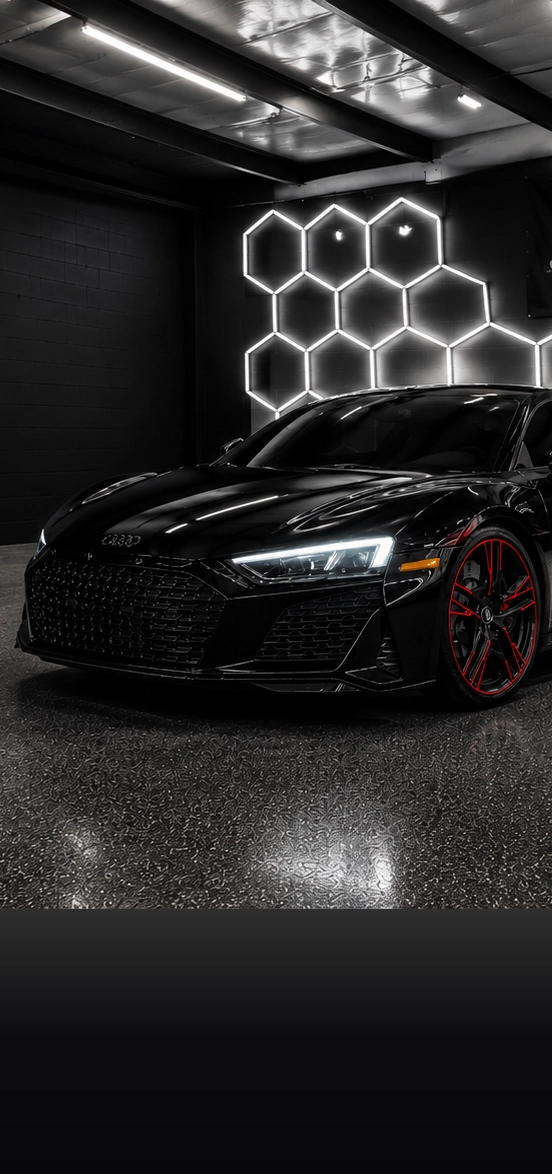
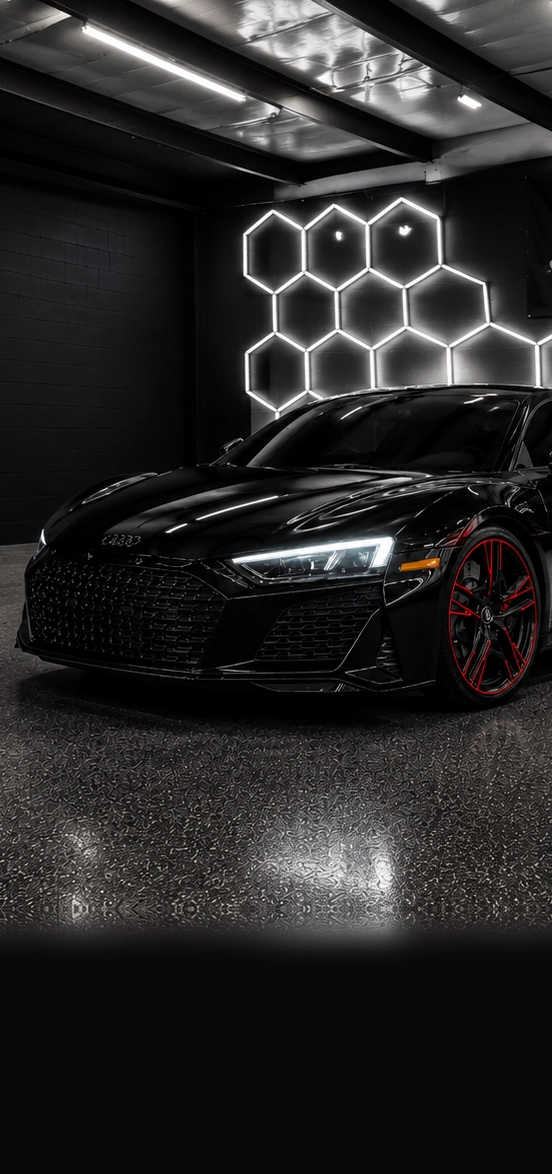
Fix the grey band under the phone hero, and the scroll jump with it
The phone hero photo is 552x909 and the build pads the canvas to 552x1174 so
cover never crops the sides. That pad started from the mean tone of the photo's
bottom 30 rows, which is 47, while the photo's last row is 76 - so the join was
a hard 28-level step followed by roughly 60 rows of textureless grey, reading as
a rectangle stuck to the foot of the photo.

It only showed on a phone because the hero was 100dvh. iOS Safari grows the
viewport as the URL bar collapses, so the hero grew while scrolling and slid the
pad into view, then hid it again on the way back up. That same live resize was
the scroll jump, since the hero is the first thing on the page.

- hero height 100dvh -> 100svh, measured with the browser UI shown and then left
  alone. No change on desktop, where svh, dvh and lvh are the same number.
- the pad is now the photo's own bottom rows mirrored, so the join is continuous
  by construction, 77 -> 76, with focus falling off over a dozen rows and a
  smoothstepped veil to page black about fifty rows in.

Home page paint budget on touch devices, with nothing changed on screen:

- service-card rotation frames were all preloaded at boot, 1.7MB and 14 decodes,
  while the phone was still painting the hero; now warmed on first appearance
- the eight rotation timers and the favourites-rail rAF loop ran from load to
  close, on cards and a rail far below the fold; both are now gated on visibility
[…]

Changed region(s): [[0.0924, 0.7666, 0.7699, 0.8279], [0.7699, 0.7666, 1.0, 0.8279], [0.0, 0.7973, 0.0924, 0.8279]]

diff --git a/src/styles/shop.css b/src/styles/shop.css
@@ -1590,10 +1590,24 @@ html.has-landed .page-wipe {
      Height is tied to the viewport, never to the photo's ratio - deriving it
      from the asset made the hero 618px tall at 375px wide and 1078px at 655px,
      which pushed the copy clean off the bottom of the screen. */
+  /* svh, not dvh. dvh is the *live* viewport, and on iOS Safari that number
+     changes the whole time you are scrolling - the URL bar collapses on the
+     way down and comes back on the way up, and the hero was re-laying itself
+     out to match on every one of those frames. Because the hero is the first
+     thing on the page, every one of those relayouts moved everything below it,
+     which is the jump you feel scrolling past the hero and again coming back
+     up. It also forces the blurred scrim below to re-render at a new size
+     mid-scroll.
+
+     svh is the same measurement taken with the browser UI *shown* and then
+     left alone: it is exactly the height the hero already has when you land on
+     the page, and it does not move again. Nothing changes on desktop or in
+     device emulation, where there is no collapsing UI and svh, dvh and lvh are
+     all the same number. */
   .hero {
     aspect-ratio: auto;
     min-height: 0;
-    height: calc(100dvh - var(--header-h));
+    height: calc(100svh - var(--header-h));
     padding: 0;
     display: flex;
     align-items: stretch;
@@ -1758,3 +1772,68 @@ html.has-landed .page-wipe {
   .stat { flex-direction: column; text-align: center; gap: 8px; padding: 14px 8px; }
   .fav-card { flex-basis: 74vw; }
 }
+
+/* ---------- touch-device paint budget -----------------------------------
+   Everything below is a cost the phone was paying for an effect it cannot
+   show. Nothing here changes what is on screen; it only stops the compositor
+   doing work whose result is invisible on a touch device.
+
+   Loaded from the last stylesheet on purpose, so these win over the base
+   rules in global.css without editing them in place - lift the whole block
+   out and the old behaviour is back.
+
+   Scoped to (hover: none) and (pointer: coarse) - phones and tablets - so a
+   touch-screen laptop, which still has a real pointer, keeps the full
+   treatment. */
+@media (hover: none) and (pointer: coarse) {
+  /* The tilt is wired only for a fine pointer (see wireTilt in BaseLayout),
+     so promoting the cards is pure cost here: eight service cards each held
+     their own permanent GPU layer, on top of a preserve-3d context, for a
+     transform that never runs. */
+  .tilt { will-change: auto; }
+
+  /* A sticky, full-width backdrop-filter is re-sampled and re-blurred on
+     every scroll frame - the single most expensive thing on the page while
+     the finger is moving. The bar is already 94% opaque, so the blur was
+     contributing about six percent of a blurred image: nothing the eye can
+     find, at the price of a blur pass per frame. */
+  .site-header { backdrop-filter: none; }
+
+  /* The same trade on the hex pages. What sits behind these slabs is #040404
+     plus a wire mesh already knocked back to roughly a tenth of its opacity,
+     so a 3-4px blur of it is a difference of a couple of levels out of 255,
+     under a panel that is 72-82% opaque on top of that. */
+  .hex-page .panel,
+  .hex-page .cta-box,
+  .hex-page .faq,
+  .hex-page .service-card,
+  .hex-page .review-card { backdrop-filter: none; }
+
+  /* Paint containment: these all clip their own contents already, so this
+     only tells the engine what is already true - nothing inside can affect
+     anything outside - which lets it skip them entirely while they are off
+     screen instead of walking their subtrees. */
+  .hex-backdrop,
+  .card-media,
+  .hero-bg { contain: paint; }
+}
+
+/* ---------- off-screen animation parking --------------------------------
+   Three animations on this site loop forever: the red shine that travels
+   across the hero headline, and the lit edge and specular streak on every
+   flare button. The headline one is the expensive one - it slides a gradient
+   under background-clip: text, which no engine can hand to the compositor,
+   so the browser re-paints the letterforms every frame for as long as the
+   page is open, whether or not the headline is still on screen.
+
+   wireIdleAnimations (BaseLayout) hangs this class on those elements while
+   they are outside the viewport. Pausing is invisible by definition - the
+   only frames skipped are ones nobody was looking at - and the animation
+   picks up where it left off on the way back in.
+
+   !important because the rules being overridden set the `animation` shorthand,
+   which carries its own play-state and outranks a plain class - and because
+   the only thing this can ever do is stop an animation nobody can see. */
+.anim-idle,
+.anim-idle::before,
+.anim-idle::after { animation-play-state: paused !important; }

diff --git a/src/lib/asset.ts b/src/lib/asset.ts
@@ -8,7 +8,7 @@
 // A changed URL is the only thing that reaches those clients, so every image
 // is referenced with this stamp. Bump it whenever the pipeline regenerates
 // artwork and the new files need to reach people who have already visited.
-export const ASSET_V = '20260904e';
+export const ASSET_V = '20260909a';
 
 /** Appends the cache-busting stamp to a site-root asset path. */
 export const v = (path: string | undefined | null): string =>
